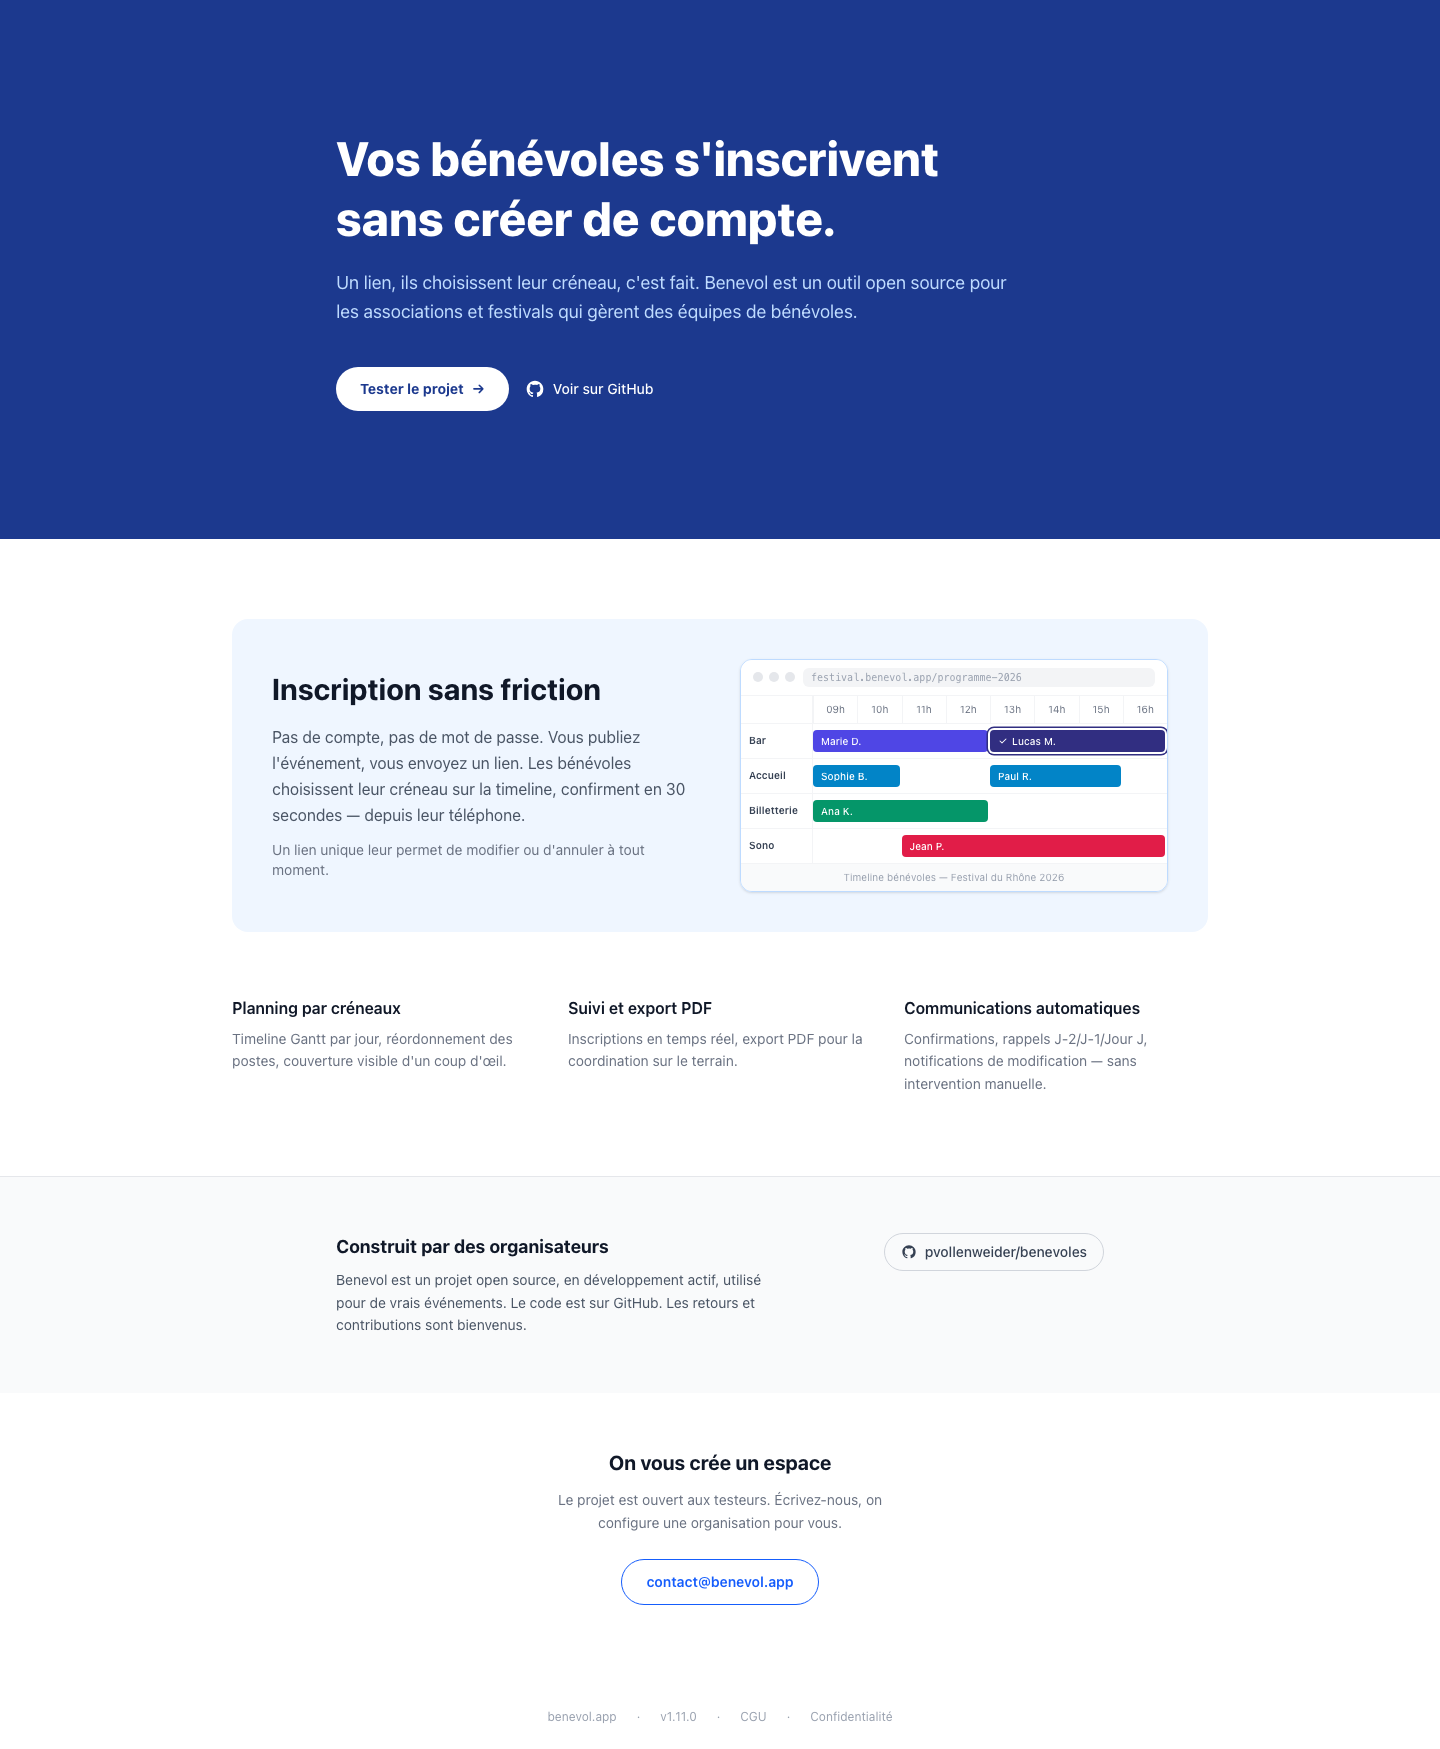
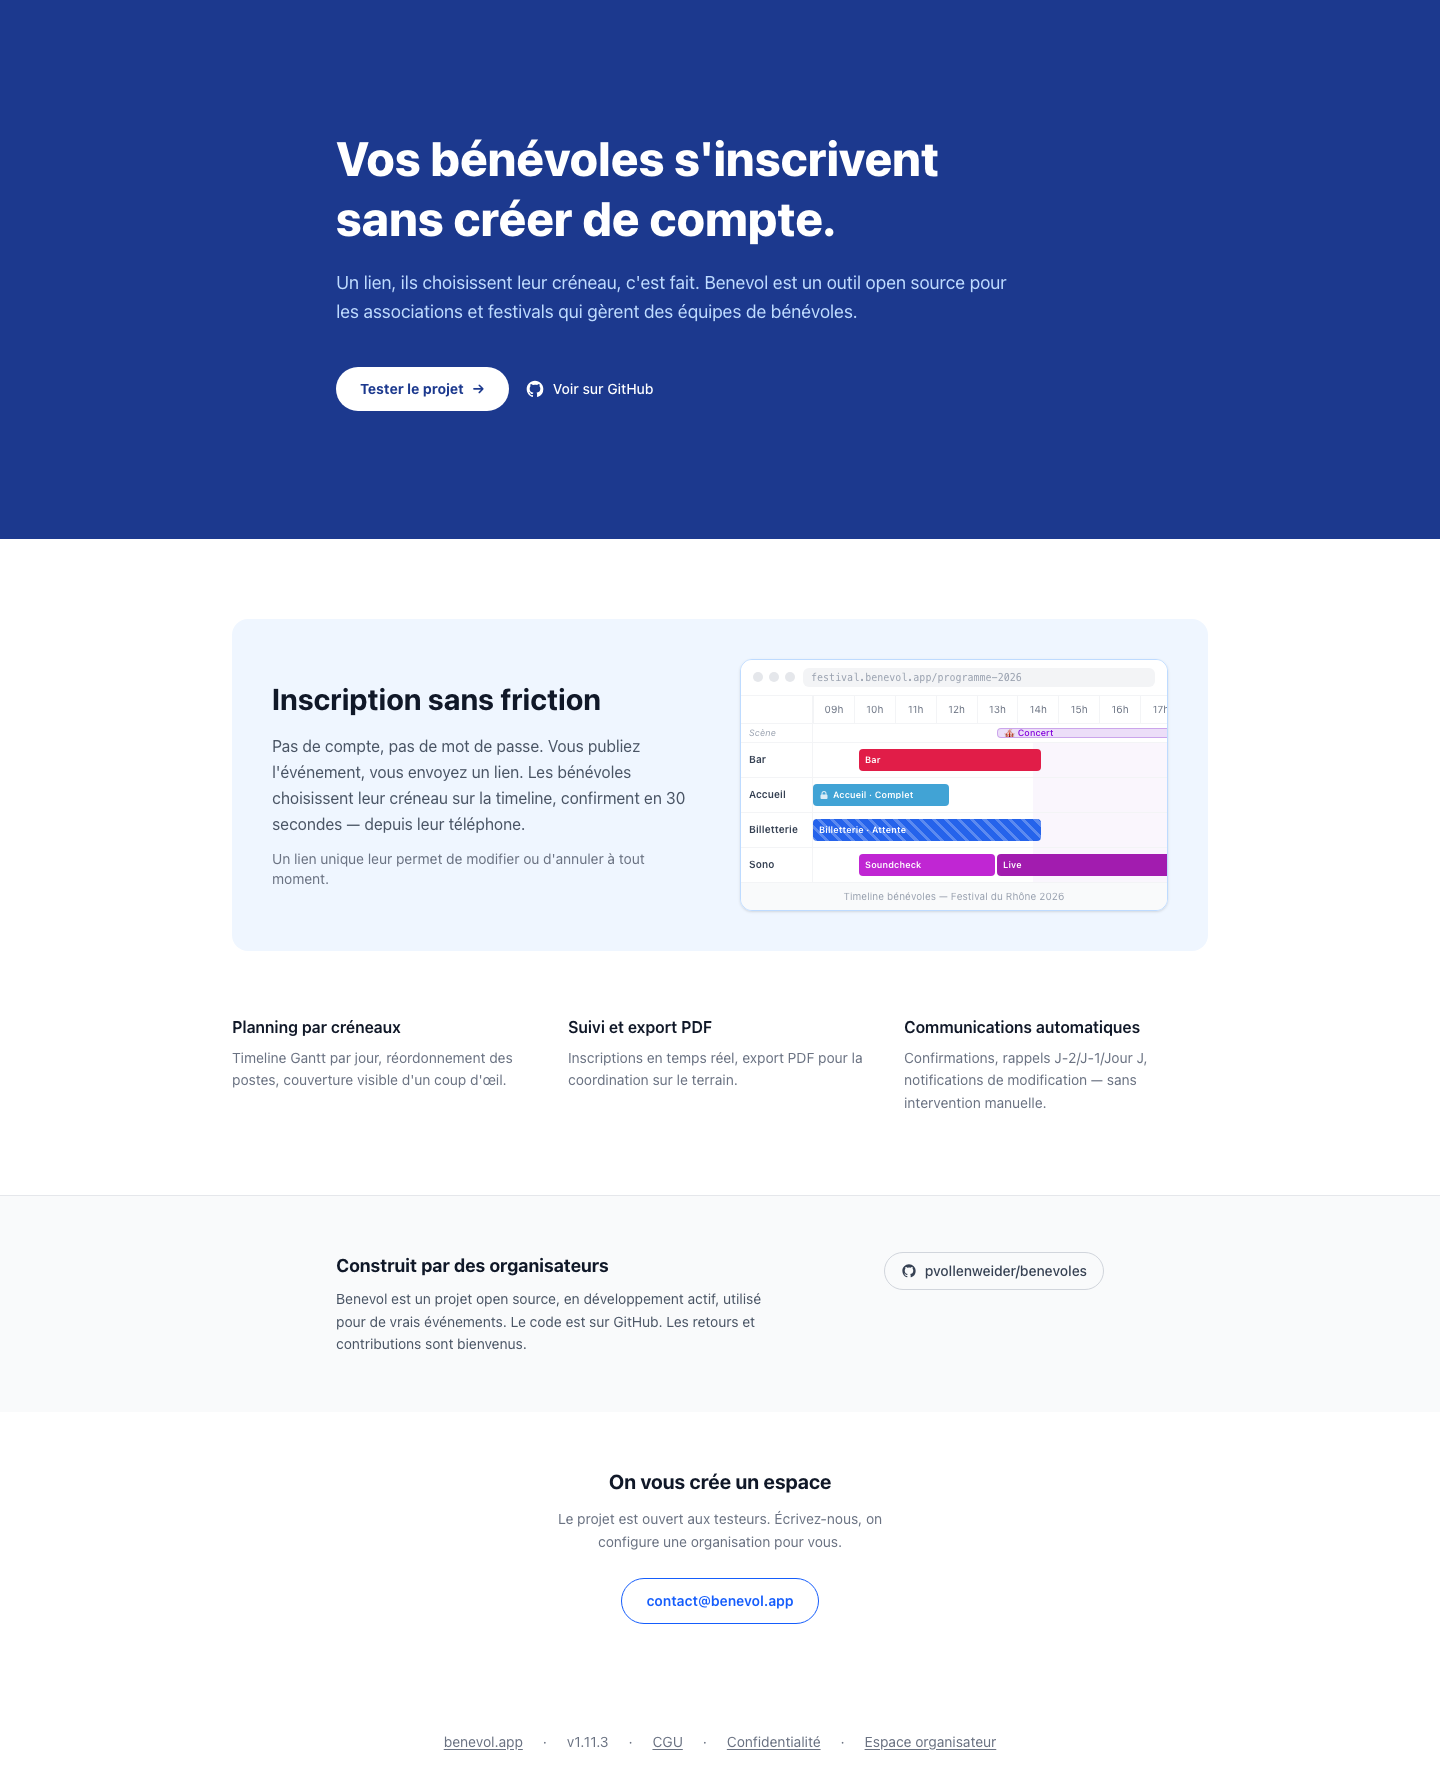
docs: refresh README screenshots (landing, timeline desktop and mobile) (#168)
- Recapture the landing page and the public timeline; the timeline now
  comes from the seed demo event so no real organisation data appears.
- README: the 'Timeline mobile' cell used the mobile landing capture; use
  the new 04-timeline-mobile.png and give the images descriptive alt text.
- scripts/screenshots.mjs: PUBLIC_ONLY=1 skips the admin login part.
- seed: demo event dates moved to 13-14 June 2026 so 'Samedi' and
  'Dimanche' labels match the real weekdays.

diff --git a/prisma/seed.ts b/prisma/seed.ts
@@ -57,9 +57,9 @@ async function main() {
   console.log(`✓ Admin d'org créé : ${orgAdminEmail} (org: ${org.slug})`)
 
   const demoShowSchedule = [
-    { name: "Représentation samedi après-midi", date: "2026-06-14", startTime: "14:30", endTime: "16:00" },
-    { name: "Représentation samedi soir",       date: "2026-06-14", startTime: "20:00", endTime: "21:30" },
-    { name: "Représentation dimanche",          date: "2026-06-15", startTime: "14:30", endTime: "16:00" },
+    { name: "Représentation samedi après-midi", date: "2026-06-13", startTime: "14:30", endTime: "16:00" },
+    { name: "Représentation samedi soir",       date: "2026-06-13", startTime: "20:00", endTime: "21:30" },
+    { name: "Représentation dimanche",          date: "2026-06-14", startTime: "14:30", endTime: "16:00" },
   ]
 
   const event = await prisma.event.upsert({
@@ -72,8 +72,8 @@ async function main() {
       description: "Le grand spectacle annuel de fin d'année.",
       location: "Salle des fêtes, Paris",
       publicStatus: "published",
-      startDate: new Date("2026-06-14"),
-      endDate: new Date("2026-06-15"),
+      startDate: new Date("2026-06-13"),
+      endDate: new Date("2026-06-14"),
       publicInstructions: "Merci pour votre aide ! Présentez-vous 15 minutes avant le début de votre créneau.",
       confirmationMessage: "Merci pour votre inscription ! Nous vous contacterons si besoin. À bientôt !",
       showSchedule: demoShowSchedule,
@@ -81,14 +81,14 @@ async function main() {
   })
 
   const shifts = [
-    { roleName: "Billetterie", label: "Billetterie — Samedi matin", date: new Date("2026-06-14"), startTime: "09:00", endTime: "12:00", capacity: 3 },
-    { roleName: "Billetterie", label: "Billetterie — Samedi après-midi", date: new Date("2026-06-14"), startTime: "13:00", endTime: "17:00", capacity: 3 },
-    { roleName: "Buvette", label: "Buvette — Samedi", date: new Date("2026-06-14"), startTime: "10:00", endTime: "18:00", capacity: 4 },
-    { roleName: "Loge", label: "Gestion des loges", date: new Date("2026-06-14"), startTime: "08:00", endTime: "12:00", capacity: 2 },
-    { roleName: "Montage", label: "Montage décors", date: new Date("2026-06-14"), startTime: "07:00", endTime: "09:00", capacity: 5 },
-    { roleName: "Billetterie", label: "Billetterie — Dimanche matin", date: new Date("2026-06-15"), startTime: "09:00", endTime: "12:00", capacity: 3 },
-    { roleName: "Buvette", label: "Buvette — Dimanche", date: new Date("2026-06-15"), startTime: "10:00", endTime: "18:00", capacity: 4 },
-    { roleName: "Démontage", label: "Démontage décors", date: new Date("2026-06-15"), startTime: "18:00", endTime: "21:00", capacity: 5 },
+    { roleName: "Billetterie", label: "Billetterie — Samedi matin", date: new Date("2026-06-13"), startTime: "09:00", endTime: "12:00", capacity: 3 },
+    { roleName: "Billetterie", label: "Billetterie — Samedi après-midi", date: new Date("2026-06-13"), startTime: "13:00", endTime: "17:00", capacity: 3 },
+    { roleName: "Buvette", label: "Buvette — Samedi", date: new Date("2026-06-13"), startTime: "10:00", endTime: "18:00", capacity: 4 },
+    { roleName: "Loge", label: "Gestion des loges", date: new Date("2026-06-13"), startTime: "08:00", endTime: "12:00", capacity: 2 },
+    { roleName: "Montage", label: "Montage décors", date: new Date("2026-06-13"), startTime: "07:00", endTime: "09:00", capacity: 5 },
+    { roleName: "Billetterie", label: "Billetterie — Dimanche matin", date: new Date("2026-06-14"), startTime: "09:00", endTime: "12:00", capacity: 3 },
+    { roleName: "Buvette", label: "Buvette — Dimanche", date: new Date("2026-06-14"), startTime: "10:00", endTime: "18:00", capacity: 4 },
+    { roleName: "Démontage", label: "Démontage décors", date: new Date("2026-06-14"), startTime: "18:00", endTime: "21:00", capacity: 5 },
   ]
 
   for (const shift of shifts) {

diff --git a/README.md b/README.md
@@ -48,10 +48,11 @@ Application **SaaS multi-tenant** de gestion de bénévoles pour événements. C
 
 | Landing page | Timeline bénévole (desktop) | Timeline mobile |
 |---|---|---|
-| ![Landing](docs/screenshots/01-landing.png) | ![Timeline desktop](docs/screenshots/03-timeline-desktop.png) | ![Timeline mobile](docs/screenshots/02-landing-mobile.png) |
+| ![Page d'accueil de Benevol : titre, maquette de la timeline et liens](docs/screenshots/01-landing.png) | ![Timeline d'inscription sur ordinateur : postes en lignes, créneaux en barres, plages de spectacle en fond](docs/screenshots/03-timeline-desktop.png) | ![Timeline d'inscription sur mobile, défilement horizontal](docs/screenshots/04-timeline-mobile.png) |
 
+> Les captures de la timeline montrent l'événement de démonstration du seed (`npm run db:seed`, organisation `default`).
 > Les captures admin (dashboard, événements, membres, export PDF) sont générées avec `npm run screenshots`.
-> Voir `scripts/screenshots.mjs` pour la configuration des URL et des credentials.
+> Voir `scripts/screenshots.mjs` pour la configuration des URL et des credentials ; `PUBLIC_ONLY=1` limite la capture aux pages publiques (sans connexion admin).
 
 ## Stack
 
